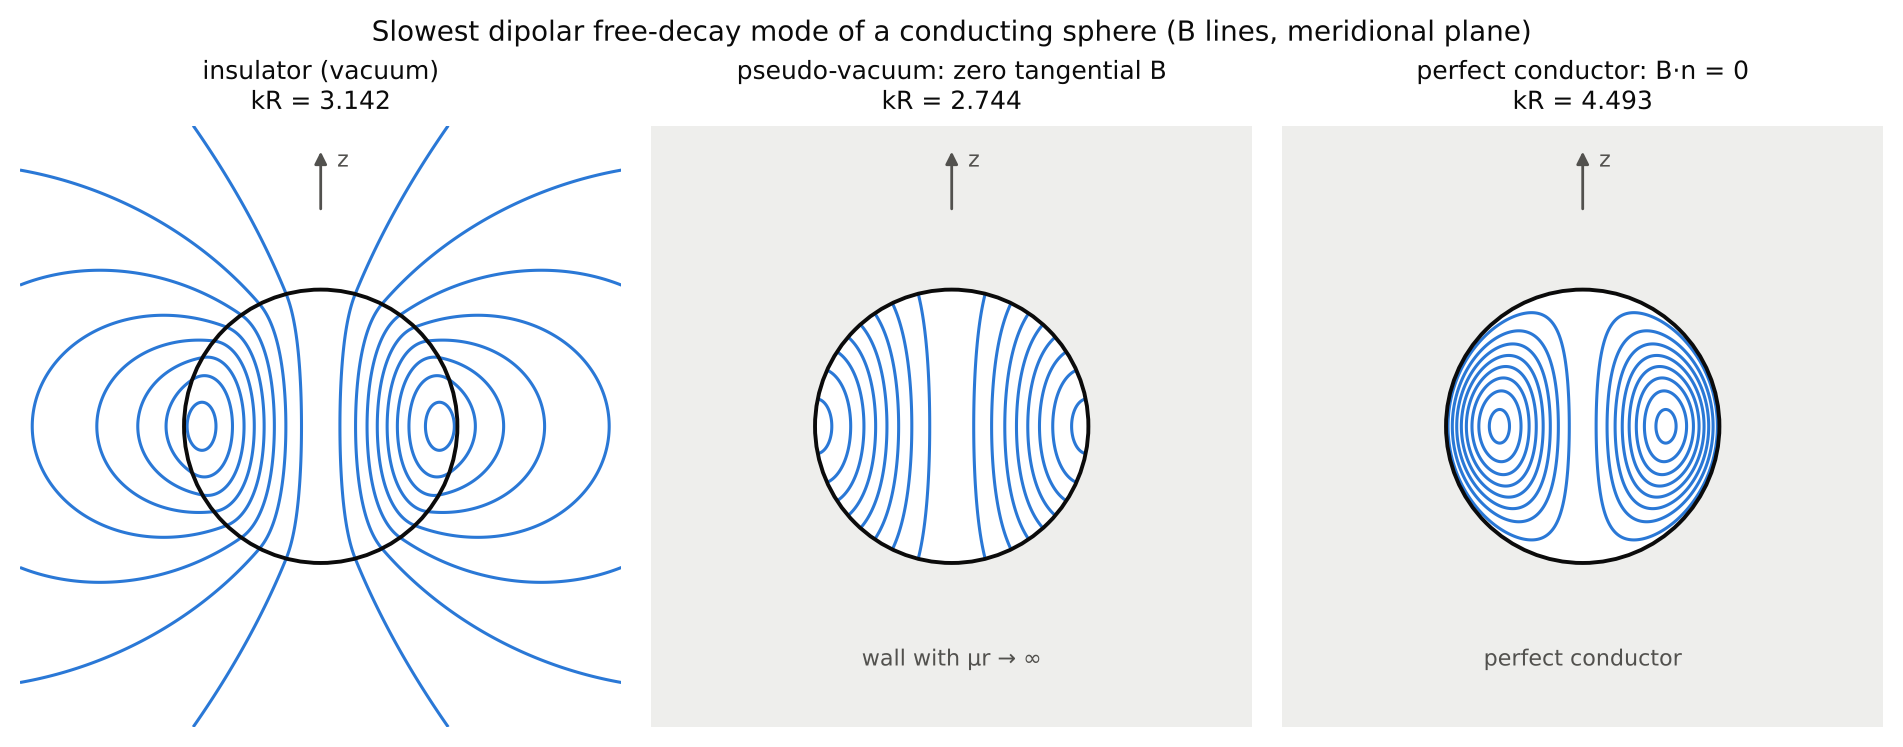
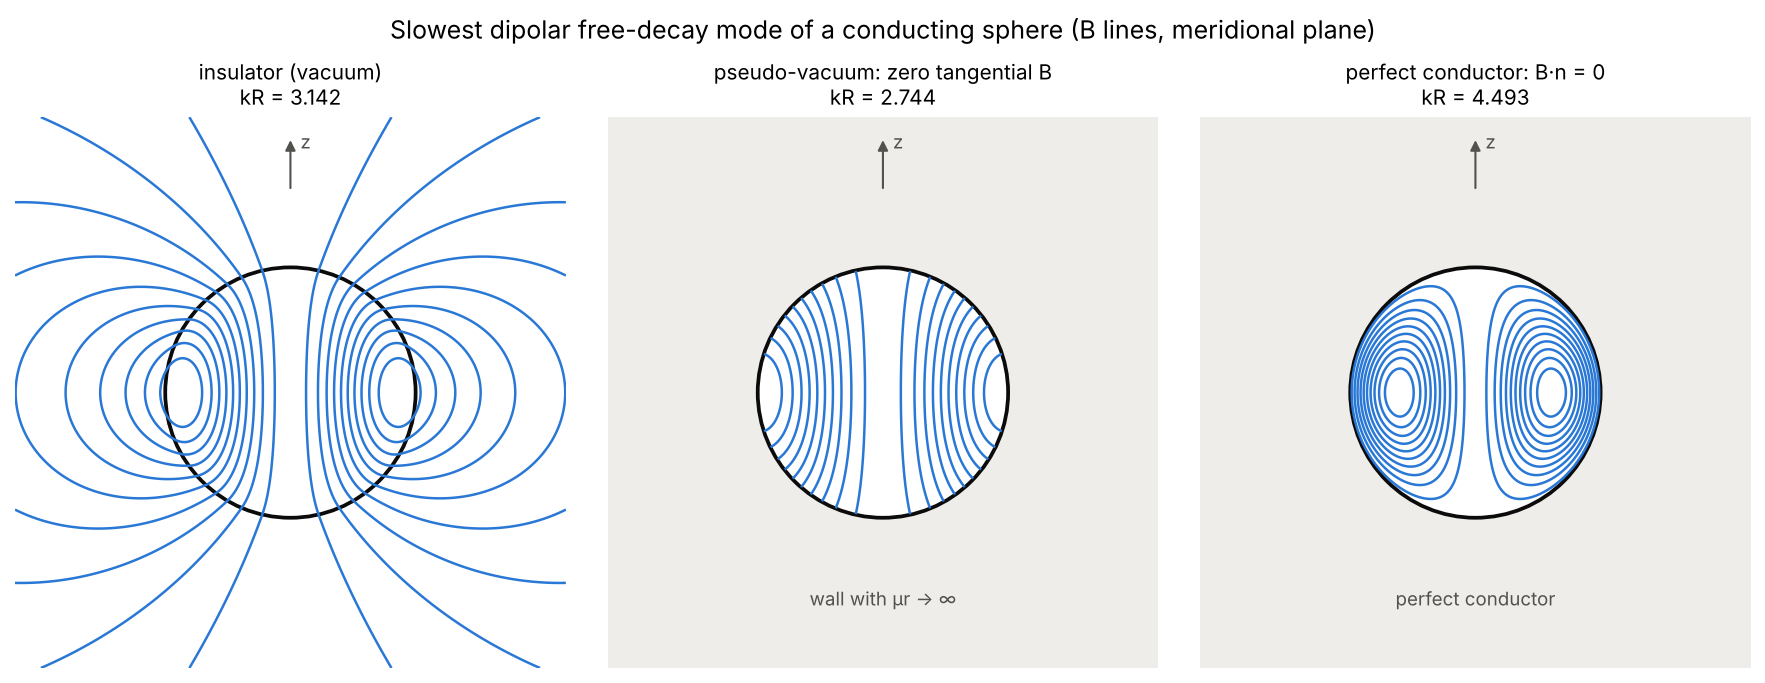
P3: figure script figures_p3.py, figures regenerated
Reuses the page code: expulsion now really computed at 128² as the caption
said (the page code defaults to 96²; energies agree to 0.01), sphere modes
kR = 3.142 / 2.744 / 4.493, alpha² threshold 6.2837, Gissinger reversal
counts of the printed output. VKS diagram from the verified dimensions.
Unused SVG copies removed.

Claude-Session: https://claude.ai/code/session_019DLE2UupA8nNvHWE1xMPtD

diff --git a/site/prep/p3-mhd-dynamo/figures_p3.py b/site/prep/p3-mhd-dynamo/figures_p3.py
@@ -1,0 +1,268 @@
+"""Static figures of module p3 (MHD and dynamo theory).
+
+Usage: python3 figures_p3.py [out_dir]     (default: the figures/ folder next to this script)
+Each data figure reuses the code block of the page that precedes it; the numbers quoted in the
+captions are printed. The VKS diagram uses the dimensions of docs/specs/sources/dynamo.md §1.3.
+Runs on CPU in about two minutes.
+"""
+import sys
+from pathlib import Path
+
+import numpy as np
+from scipy.optimize import brentq
+from scipy.special import spherical_jn as jn
+
+sys.path.insert(0, str(Path(__file__).resolve().parents[2] / "assets"))
+import figstyle as fs  # noqa: E402
+import matplotlib.pyplot as plt  # noqa: E402
+from matplotlib import patches  # noqa: E402
+
+fs.use(10)
+HERE = Path(__file__).resolve().parent
+PI_TICKS = ([0, np.pi, 2 * np.pi], ["0", "π", "2π"])
+
+
+# ---------------------------------------------------------------------------------------------
+def expulsion(Rm, N=128, T=60.0, dt=0.04):
+    """Code of the page (section 2): uniform field B0 = (1, 0) in the cellular flow psi = sin x sin y.
+    Returns the steady potential a = y + a' on the grid and the final energy <B²>."""
+    eta = 1.0 / Rm
+    x = np.arange(N) * 2 * np.pi / N
+    X, Y = np.meshgrid(x, x, indexing="ij")
+    ux, uy = np.sin(X) * np.cos(Y), -np.cos(X) * np.sin(Y)
+    KX, KY = np.meshgrid(np.fft.fftfreq(N, 1 / N), np.fft.rfftfreq(N, 1 / N), indexing="ij")
+    K2 = KX ** 2 + KY ** 2
+    keep = (np.abs(KX) < N / 3) & (KY < N / 3)
+    F, iF = np.fft.rfft2, lambda h: np.fft.irfft2(h, s=(N, N))
+
+    def rhs(ah):
+        return -F(ux * iF(1j * KX * ah) + uy * iF(1j * KY * ah) + uy) * keep
+
+    E = np.exp(-eta * K2 * dt / 2)
+    ah = np.zeros(K2.shape, complex)
+    for _ in range(int(round(T / dt))):
+        k1 = rhs(ah)
+        k2 = rhs(E * (ah + dt / 2 * k1))
+        k3 = rhs(E * ah + dt / 2 * k2)
+        k4 = rhs(E ** 2 * ah + dt * E * k3)
+        ah = E ** 2 * ah + dt / 6 * (E ** 2 * k1 + 2 * E * (k2 + k3) + k4)
+    bx, by = 1 + iF(1j * KY * ah), -iF(1j * KX * ah)
+    return X, Y, Y + iF(ah), float((bx ** 2 + by ** 2).mean())
+
+
+def fig_expulsion(out):
+    fig, ax = plt.subplots(1, 3, figsize=(12, 4.3))
+    for a, Rm in zip(ax, (10, 40, 160)):
+        X, Y, A, e = expulsion(Rm)
+        print(f"expulsion: Rm = {Rm}, <B²>/B0² = {e:.2f} (128² grid)")
+        a.contour(X, Y, np.sin(X) * np.sin(Y), levels=np.linspace(-0.9, 0.9, 6), colors=fs.LIGHT, linewidths=0.8, linestyles="solid")
+        a.contour(X, Y, A, levels=np.linspace(0, 2 * np.pi, 25)[1:-1], colors=fs.C1, linewidths=1.1, linestyles="solid")
+        a.set_aspect("equal"); a.grid(False); a.set_title(f"Rm = {Rm}")
+        a.set_xticks(*PI_TICKS); a.set_yticks(*PI_TICKS); a.set_xlabel("x")
+    ax[0].set_ylabel("y")
+    fig.suptitle("Steady field lines (blue) in the cellular flow ψ = sin x sin y (grey)")
+    fig.tight_layout()
+    fs.save(fig, out / "expulsion.png")
+
+
+# ---------------------------------------------------------------------------------------------
+def fig_modes_sphere(out):
+    conditions = {
+        "insulator (vacuum)": lambda x: jn(0, x),
+        "pseudo-vacuum: zero tangential B": lambda x: x * jn(0, x) - jn(1, x),
+        "perfect conductor: B·n = 0": lambda x: jn(1, x),
+    }
+    roots = {}
+    for name, g in conditions.items():
+        xs = np.linspace(0.5, 6, 2000)
+        i = np.where(np.sign(g(xs[:-1])) != np.sign(g(xs[1:])))[0][0]
+        roots[name] = brentq(g, xs[i], xs[i + 1])
+        print(f"modes-sphere: {name}: kR = {roots[name]:.4f}")
+    # meridional plane (s = r sin(theta), z); flux function Psi = r f(r) sin²(theta), R = 1
+    s, z = np.meshgrid(np.linspace(-2.2, 2.2, 501), np.linspace(-2.2, 2.2, 501))
+    r = np.hypot(s, z)
+    sin2 = np.where(r > 0, (s / np.where(r > 0, r, 1)) ** 2, 0)
+    fig, ax = plt.subplots(1, 3, figsize=(12, 4.6))
+    for a, (name, kR) in zip(ax, roots.items()):
+        f_in = jn(1, kR * r)
+        psi = r * f_in * sin2
+        if name.startswith("insulator"):
+            psi = np.where(r <= 1, psi, jn(1, kR) / np.where(r > 0, r, 1) * sin2)   # f = f(R) R²/r² outside
+        else:
+            psi = np.where(r <= 1, psi, np.nan)
+            a.add_patch(patches.Rectangle((-2.2, -2.2), 4.4, 4.4, color="#eeedea", zorder=0))
+            a.add_patch(patches.Circle((0, 0), 1, color="white", zorder=0))
+            a.text(0, -1.7, "wall with μr → ∞" if name.startswith("pseudo") else "perfect conductor",
+                   ha="center", color=fs.INK2, fontsize=9)
+        lev = np.abs(np.nanmax(np.abs(psi[np.abs(r - 0.5) < 0.6])))
+        levels = np.linspace(-lev, lev, 22)
+        levels = levels[np.abs(levels) > 1e-9]
+        a.contour(s, z, psi, levels=levels, colors=fs.C1, linewidths=1.2, linestyles="solid")
+        a.add_patch(patches.Circle((0, 0), 1, fill=False, lw=1.8, color=fs.INK))
+        a.annotate("", xy=(0, 2.05), xytext=(0, 1.6), arrowprops=dict(arrowstyle="-|>", color=fs.INK2))
+        a.text(0.08, 1.95, "z", color=fs.INK2, fontsize=9)
+        a.set_xlim(-2.2, 2.2); a.set_ylim(-2.2, 2.2); a.set_aspect("equal"); a.axis("off")
+        a.set_title(f"{name}\nkR = {kR:.3f}")
+    fig.suptitle("Slowest dipolar free-decay mode of a conducting sphere (B lines, meridional plane)")
+    fig.tight_layout(rect=(0, 0, 1, 0.94))
+    fs.save(fig, out / "modes-sphere.png")
+
+
+# ---------------------------------------------------------------------------------------------
+def fig_alpha2(out):
+    def operator(C, N=200):
+        h = 1.0 / N
+        Id = np.eye(N - 1)
+        D1 = (np.eye(N - 1, k=1) - np.eye(N - 1, k=-1)) / (2 * h)
+        D2 = (np.eye(N - 1, k=1) - 2 * Id + np.eye(N - 1, k=-1)) / h ** 2
+        return np.block([[D2, -C * D1], [C * D1, D2]])
+
+    def rate(C):
+        return np.linalg.eigvals(operator(C)).real.max()
+
+    def saturate(C, N=32, T=12.0, dt=1e-3, seed=0):
+        k = 2 * np.pi * np.fft.rfftfreq(N, 1.0 / N)
+        rng = np.random.default_rng(seed)
+        bx, by = 1e-3 * rng.standard_normal(N), 1e-3 * rng.standard_normal(N)
+        E = np.exp(-k ** 2 * dt)
+        phi = np.where(k > 0, (1 - E) / np.where(k > 0, k ** 2, 1), dt)
+        for _ in range(int(T / dt)):
+            a = C / (1 + bx ** 2 + by ** 2)
+            fx, fy = np.fft.rfft(bx), np.fft.rfft(by)
+            nx = -1j * k * np.fft.rfft(a * by)
+            ny = 1j * k * np.fft.rfft(a * bx)
+            bx = np.fft.irfft(E * fx + phi * nx, N)
+            by = np.fft.irfft(E * fy + phi * ny, N)
+        return (bx ** 2 + by ** 2).mean()
+
+    Cc = brentq(rate, 4.0, 8.0, xtol=1e-6)
+    print(f"alpha2: numerical threshold C_c = {Cc:.4f} (2 pi = {2 * np.pi:.4f})")
+    fig, ax = plt.subplots(1, 2, figsize=(11, 4))
+    C = np.linspace(0, 13, 200)
+    ax[0].plot(C, C ** 2 / 4 - np.pi ** 2, color=fs.C1, label="theory n = 1: C²/4 − π²")
+    ax[0].plot(C, C ** 2 / 4 - 4 * np.pi ** 2, color=fs.C2, label="theory n = 2: C²/4 − 4π²")
+    Cn = np.arange(1.0, 13.0)
+    ax[0].plot(Cn, [rate(c) for c in Cn], "o", mfc="white", mec=fs.INK, mew=1.5, label="finite differences")
+    ax[0].axhline(0, color=fs.INK2, lw=0.8); ax[0].axvline(2 * np.pi, color=fs.INK2, lw=0.8, ls=":")
+    ax[0].text(2 * np.pi + 0.15, -39, "2π", color=fs.INK2)
+    ax[0].set_ylim(-42, 32); ax[0].legend(loc="upper left", fontsize=9)
+    ax[0].set_xlabel(r"$C = \alpha L/\eta_T$"); ax[0].set_ylabel(r"growth rate $\lambda L^2/\eta_T$")
+    ax[0].set_title("Slab with B = 0 at walls: threshold C = 2π")
+    ax[1].plot(C, np.maximum(C / (2 * np.pi) - 1, 0), color=fs.C1, label="theory C/2π − 1")
+    Cs = np.array([5, 6, 6.6, 7, 8, 9, 10, 11, 12])
+    sat = [saturate(c, T=40.0 if c < 7.5 else 12.0) for c in Cs]
+    for c, m in zip(Cs, sat):
+        print(f"alpha2: C = {c:4.1f}  saturated <B²> = {m:.4f}  theory {max(c / (2 * np.pi) - 1, 0):.4f}")
+    ax[1].plot(Cs, sat, "o", mfc="white", mec=fs.INK, mew=1.5, label="simulation (α = C/(1 + |B|²))")
+    ax[1].axvline(2 * np.pi, color=fs.INK2, lw=0.8, ls=":")
+    ax[1].legend(loc="upper left", fontsize=9)
+    ax[1].set_xlabel(r"$C = \alpha L/\eta_T$"); ax[1].set_ylabel(r"saturated $\langle|B|^2\rangle\,/\,B^2_\mathrm{eq}$")
+    ax[1].set_title("Periodic box: saturation (pitchfork)")
+    fig.tight_layout()
+    fs.save(fig, out / "alpha2.png")
+
+
+# ---------------------------------------------------------------------------------------------
+def fig_vks(out):
+    """Schematic meridional cut, in mm (axis horizontal); proportions approximate."""
+    fig, ax = plt.subplots(figsize=(13, 5.6))
+    ax.set_xlim(-330, 900); ax.set_ylim(-330, 330); ax.set_aspect("equal"); ax.axis("off")
+    copper, sodium = "#b87333", "#e8f0fa"
+    ax.add_patch(patches.Rectangle((-302, -289), 604, 578, fc="#f3efe8", ec=copper, lw=4))
+    ax.add_patch(patches.Rectangle((-262, -206), 524, 412, fc=sodium, ec=fs.INK2, lw=2))
+    ax.plot([-320, 320], [0, 0], ls="--", color=fs.INK2, lw=1)
+    ax.text(325, 0, "axis", va="center", color=fs.INK2, fontsize=9)
+    for sgn in (-1, 1):
+        xd = sgn * 185.5                                     # discs 371 mm apart
+        ax.plot([xd, xd], [-154.5, 154.5], color="#333", lw=4)
+        ax.plot([sgn * 185.5, sgn * 278], [0, 0], color="#555", lw=5)
+        for y in np.linspace(-138, 138, 6):
+            ax.plot([xd, xd - sgn * 41.2], [y, y], color="#888", lw=5)
+    ax.plot([0, 0], [175, 206], color=fs.INK2, lw=3); ax.plot([0, 0], [-206, -175], color=fs.INK2, lw=3)
+    loop_kw = dict(color=fs.C1, lw=1.6)
+    for sx in (-1, 1):
+        for sy in (-1, 1):
+            x0, x1 = sorted((sx * 20, sx * 150)); y0, y1 = sorted((sy * 20, sy * 170))
+            ax.add_patch(patches.Rectangle((x0, y0), x1 - x0, y1 - y0, fill=False, **loop_kw))
+            ccw = sx * sy < 0                               # sense of the poloidal cell
+            for (xa, ya, dx, dy) in [((x0 + x1) / 2, y1, 1, 0), ((x0 + x1) / 2, y0, -1, 0),
+                                     (x0, (y0 + y1) / 2, 0, -1), (x1, (y0 + y1) / 2, 0, 1)]:
+                d = -1 if ccw else 1
+                ax.annotate("", xy=(xa + 8 * dx * d, ya + 8 * dy * d), xytext=(xa, ya),
+                            arrowprops=dict(arrowstyle="-|>", color=fs.C1, lw=1.4))
+    for (x, y, sym) in [(-230, 180, "⊙"), (230, 180, "⊗"), (-230, -180, "⊗"), (230, -180, "⊙")]:
+        ax.text(x, y, sym, ha="center", va="center", color=fs.C2, fontsize=14, family="DejaVu Sans")
+    ax.annotate("", xy=(100, -12), xytext=(-100, -12), arrowprops=dict(arrowstyle="-|>", color="#e34948", lw=3))
+    ax.annotate("", xy=(-185.5, -245), xytext=(185.5, -245), arrowprops=dict(arrowstyle="<->", color=fs.INK2))
+    ax.text(0, -265, "371 mm", ha="center", va="top", color=fs.INK2, fontsize=9)
+    marks = {1: (-280, 265), 2: (-245, -100), 3: (205, 80), 4: (255, 180), 5: (95, 110), 6: (25, -185), 7: (0, -50)}
+    for n, (x, y) in marks.items():
+        ax.text(x, y, str(n), ha="center", va="center", color="white", fontsize=9, fontweight="bold",
+                bbox=dict(boxstyle="circle,pad=0.25", fc=fs.INK, ec="white"))
+    legend = [
+        "copper envelope, inner radius 289 mm: sodium at rest",
+        "inner cylinder, R = 206 mm: sodium set in motion",
+        "soft-iron impellers (μr of order 50 to 100): disks of radius 154.5 mm,\n8 curved blades of 41.2 mm; 371 mm between the disks",
+        "counter-rotation of the two impellers, frequencies F₁ and F₂ (⊙: towards the reader)",
+        "poloidal recirculation of the mean flow (4 cells)",
+        "thin annulus in the mid-plane",
+        "generated mean field: axial dipole, mostly axisymmetric",
+    ]
+    for i, txt in enumerate(legend):
+        y = 250 - i * 78
+        ax.text(390, y, str(i + 1), ha="center", va="center", color="white", fontsize=9, fontweight="bold",
+                bbox=dict(boxstyle="circle,pad=0.25", fc=fs.INK, ec="white"))
+        ax.text(420, y, txt, va="center", fontsize=9.5, color=fs.INK)
+    ax.set_title("VKS experiment (Cadarache): schematic meridional cut", fontsize=12)
+    fs.save(fig, out / "vks.png")
+
+
+# ---------------------------------------------------------------------------------------------
+def fig_gissinger(out):
+    """Code of the page (section 7): 4 trajectories per Gamma, reversals counted with the ±0.5 threshold."""
+    mu, nu = 0.119, 0.1
+    gammas = np.array([0.80, 0.84, 0.86, 0.87, 0.88, 0.90, 0.95, 1.00])
+
+    def F(X, G):
+        Q, D, V = X
+        return np.array([mu * Q - V * D, -nu * D + V * Q, G - V + Q * D])
+
+    rng = np.random.default_rng(0)
+    Gv = np.repeat(gammas, 4)
+    X = rng.normal(size=(3, Gv.size)) * 0.8
+    X[2] = np.abs(X[2])
+    dt, T, T0 = 0.02, 5000.0, 500.0
+    last = np.zeros(Gv.size); nrev = np.zeros(Gv.size, int)
+    i86, i90 = np.flatnonzero(Gv == 0.86)[0], np.flatnonzero(Gv == 0.90)[0]
+    ts, d86, d90 = [], [], []
+    for i in range(int(T / dt)):
+        k1 = F(X, Gv); k2 = F(X + dt / 2 * k1, Gv); k3 = F(X + dt / 2 * k2, Gv); k4 = F(X + dt * k3, Gv)
+        X = X + dt / 6 * (k1 + 2 * k2 + 2 * k3 + k4)
+        if i * dt >= T0:
+            p = np.where(X[1] > 0.5, 1.0, np.where(X[1] < -0.5, -1.0, 0.0))
+            nrev += (p != 0) & (last != 0) & (p != last)
+            last = np.where(p != 0, p, last)
+            if i % 5 == 0:
+                ts.append((i + 1) * dt); d86.append(X[1, i86]); d90.append(X[1, i90])
+    per1000 = nrev.reshape(-1, 4).sum(1) / (4 * (T - T0)) * 1000
+    for g, r in zip(gammas, nrev.reshape(-1, 4).sum(1)):
+        print(f"gissinger: Gamma = {g:.2f}: {r} reversals over 18000 time units")
+    fig = plt.figure(figsize=(12, 4.6))
+    gs = fig.add_gridspec(2, 3, width_ratios=[1, 1, 0.9])
+    a1, a2, a3 = fig.add_subplot(gs[0, :2]), fig.add_subplot(gs[1, :2]), fig.add_subplot(gs[:, 2])
+    a1.plot(ts, d86, color=fs.C1, lw=0.7); a1.set_title("Γ = 0.86: chaos without reversals", loc="left")
+    a2.plot(ts, d90, color=fs.C2, lw=0.7); a2.set_title("Γ = 0.90: chaotic reversals", loc="left")
+    for a in (a1, a2):
+        a.axhline(0, color=fs.INK2, lw=0.8); a.set_ylim(-3.3, 3.3); a.set_ylabel("dipole D")
+    a1.set_xticklabels([]); a2.set_xlabel("time t")
+    a3.axvspan(0.795, 0.865, color="#e4e3df", lw=0)
+    a3.plot(gammas, per1000, "o-", color=fs.C1, mfc="white", mew=1.5)
+    a3.set_xlabel("Γ"); a3.set_ylabel("reversals per 1000 time units")
+    fig.tight_layout()
+    fs.save(fig, out / "gissinger.png")
+
+
+if __name__ == "__main__":
+    out = fs.out_dir(str(HERE / "figures" / "x"), sys.argv)
+    for fn in (fig_expulsion, fig_modes_sphere, fig_alpha2, fig_vks, fig_gissinger):
+        fn(out)
